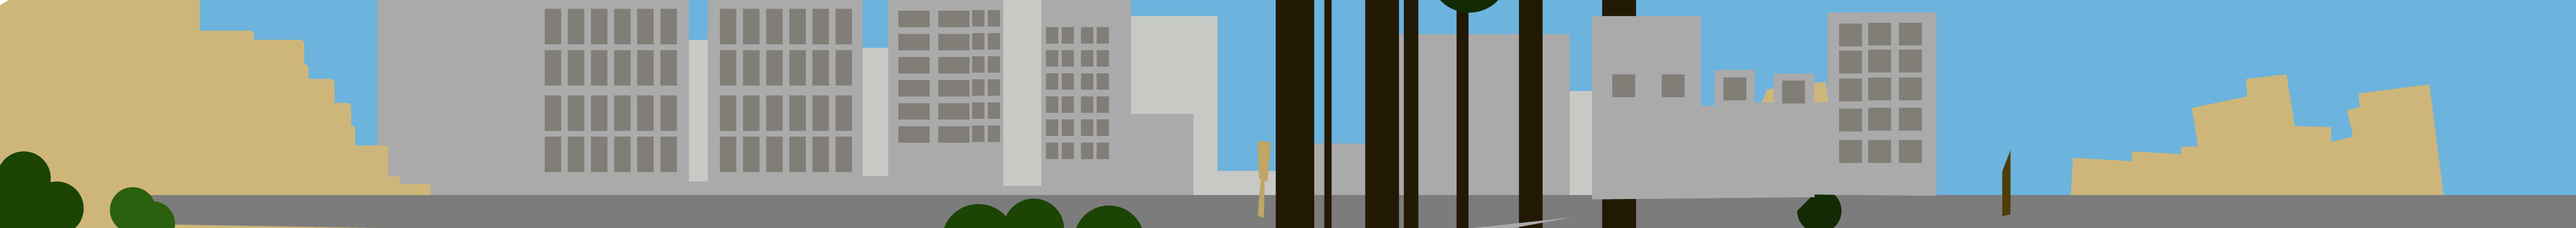
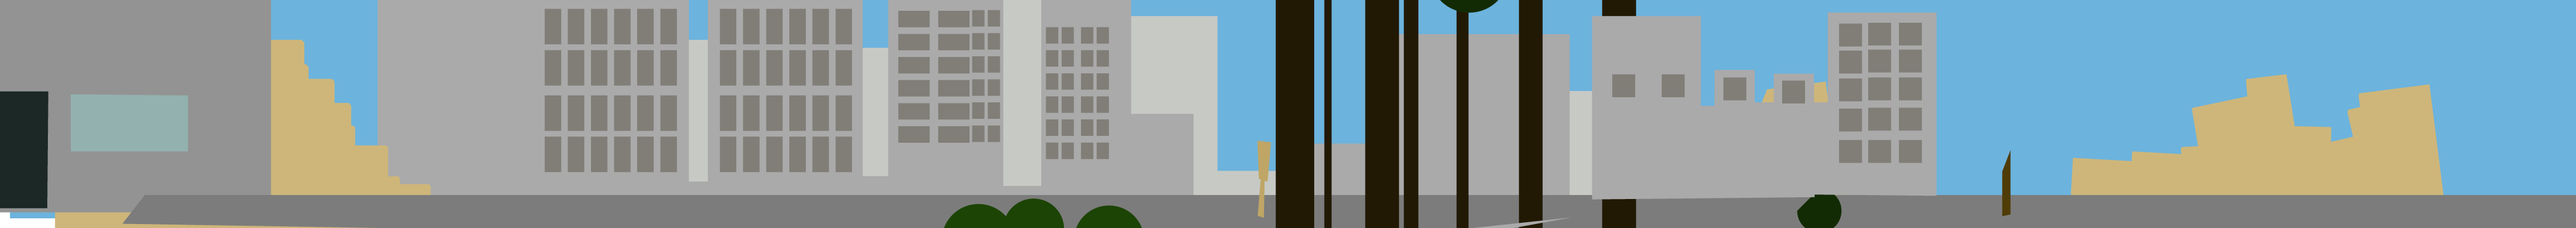
inventory sorta works, bgs are different, wormhole works too

Changed region(s): [[0.0, 0.0, 0.1248, 1.0]]

diff --git a/main.py b/main.py
@@ -7,13 +7,17 @@ import resources, player, drawable, item
 def floorfunc(a,b,w,fric,rest):
 	f = pym.Segment(space.static_body, a, b, w)
 	f.friction, f.restitution = fric, rest 	#reduce friction and bounciness
-	f.group = 1 #objects of the same (non-zero) group do not collide
+	f.group = 1  #objects of the same (non-zero) group do not collide
 	return f
 
 def switchbg(bg,fg,ID,XOFF,CHARX,portalbool):
 	global activebg
 	global activefg
 	global char
+	global xoffset
+	global bgw
+	global bgh
+	global drawportal
 	activebg.remove_child(char)
 	activebg.image = bg
 	activefg.image = fg
@@ -33,24 +37,29 @@ space.iterations = 8 						#reduce penetration (haha penetration)
 
 labfloor = floorfunc((-1000,35), (1340,35), 14, 1.0, 0.0)
 labwall = pym.Segment(space.static_body, (-35,-50), (-35, 1000), 20)
-forestfloor = floorfunc((0,35), (5000,35), 14, 1.0, 0.0)
-forestwall = pym.Segment(space.static_body, (4540,-50), (4540, 1000), 20)
-space.add(labfloor, labwall, forestfloor, forestwall)
+cityfloor = floorfunc((-100,35), (5000,35), 21, 1.0, 0.0)
+citywall = pym.Segment(space.static_body, (4540,-50), (4540, 1000), 20)
+forestfloor = cityfloor
+forestwall = citywall
+space.add(labfloor, labwall)
 
 drawable_batch = pyg.graphics.Batch()
 npc_batch = pyg.graphics.Batch()
 char = player.Player(space=space, batch=drawable_batch)
 
 activebg = drawable.Drawable('backgrounds/lab_bg.png')
-activefg = pyg.sprite.Sprite(pyg.image.load('resources/backgrounds/lab_fg.png'), x=0, y=0)
+activefg = pyg.sprite.Sprite(pyg.image.load('resources/backgrounds/lab_fg.png'))
 activebg.id = 0
+forestbatch, citybatch = pyg.graphics.Batch(), pyg.graphics.Batch()
 forest_bg = pyg.image.load('resources/backgrounds/forest_bg.png')
 forest_fg = pyg.image.load('resources/backgrounds/forest_fg.png')
 lab_bg = pyg.image.load('resources/backgrounds/lab_bg.png')
 lab_fg = pyg.image.load('resources/backgrounds/lab_fg.png')
 city_bg = pyg.image.load('resources/backgrounds/city_bg.png')
 city_fg = pyg.image.load('resources/backgrounds/city_fg.png')
-portal = pyg.sprite.Sprite(pyg.image.load('resources/portal-01.png'))
+portal = pyg.sprite.Sprite(pyg.image.load('resources/portal-04.png'))
+melonseed = drawable.Drawable('sap-02.png')
+melontree = drawable.Drawable('tree-03.png')
 activebg.add_child(char)
 
 drawEngine = False	#initially do not show hitboxes/floors
@@ -60,10 +69,19 @@ bgw, bgh = activebg.width, activebg.height
 drawportal = False	#do not draw the portal immediately
 timetravel = False
 
-items = [Item('Watermelon', pyg.image.load('resources/items/watermelon.png'), 500, 50)]
+items = [item.Item('Watermelon', 'items/watermelon.png', 1000, 50)]
 
 for item in items:
-    activebg.add_child(item)
+	activebg.add_child(item)
+
+def plant_watermelon():
+	global activebg
+	global char
+	if activebg.id == 1 and any(i.name == 'Watermelon' for i in char.inventory.I):
+		print 'p'
+		melonseed.set_position(char.body.position.x, char.body.position.y)
+		activebg.add_child(melonseed)
+
 
 @window.event
 def on_draw():
@@ -74,14 +92,12 @@ def on_draw():
 	pyg.gl.glPushMatrix()
 	pyg.gl.glTranslatef(xoffset, 0, 0)	#shift graphics by amount xoffset - like a camera moving
 	activebg.offsetdraw(0,0)
-	drawable_batch.draw()
 	activefg.draw()
 	if drawportal:
-		portal.set_position(1970,58)
+		portal.set_position(1960,57)
 		portal.draw()
 	if drawEngine:
 		pdraw(space)
-
 	pyg.gl.glPopMatrix()
 
 
@@ -90,9 +106,11 @@ def on_key_press(symbol, modifiers):
 	global drawEngine
 	global timetravel
 	if symbol == key.E:
+		#toggle hitboxes/invisible walls-floors-etc
 		drawEngine = not drawEngine
 
 	if symbol == key.UP and drawportal and (char.x < (portal.x + portal.width/2.0) and char.x > (portal.x - portal.width/2.0)):
+		#if the player hits UP when standing inside the drawn portal, change bg/fg
 		timetravel = not timetravel
 		if timetravel:
 			activebg.image = forest_bg
@@ -103,6 +121,18 @@ def on_key_press(symbol, modifiers):
 			activefg.image = city_fg
 			activebg.id = 1
 
+	if symbol == key.I:
+		for item in char.inventory.I:
+			activebg.add_child(item)
+
+	if symbol == key.P:
+		plant_watermelon()
+
+@window.event
+def on_key_release(symbol, modifiers):
+	if symbol == key.I:
+		for item in char.inventory.I:
+			activebg.remove_child(item)
 
 def update(dt):
 	global activebg
@@ -124,68 +154,33 @@ def update(dt):
 		xoffset = -bgw + ww
 
 	if timetravel:
-		if char.posx < -15 and activebg.id == 3:
-			activebg.remove_child(char)
-			activebg.image = lab_bg
-			activefg.image = lab_fg
-			activebg.id = 0
-			bgw,bgh = activebg.width, activebg.height
-			activebg.add_child(char)
-			xoffset = ww - bgw
-			char.body.position.x  = char.posx + bgw
-			drawportal = False
+		if char.posx < -45 and activebg.id == 3:
+			switchbg(lab_bg, lab_fg, 2, ww - lab_bg.width, char.posx + lab_bg.width, False)
+			space.remove(forestwall, forestfloor)
+			space.add(labwall, labfloor)
 
 		if char.posx > 1315 and activebg.id == 2:
-			activebg.remove_child(char)
-			activebg.image = forest_bg
-			activefg.image = forest_fg
-			activebg.id = 1
-			bgw,bgh = activebg.width, activebg.height
-			activebg.add_child(char)
-			xoffset = 0
-			char.body.position.x = 0
-			drawportal = True
-
-
+			switchbg(forest_bg, forest_fg, 3, 0, -35, True)
+			space.remove(labwall, labfloor)
+			space.add(forestfloor, forestwall)
 	else:
-		if char.posx < -15 and activebg.id == 1:
-
-			activebg.remove_child(char)
-			activebg.image = lab_bg
-			activefg.image = lab_fg
-			activebg.id = 0
-			bgw,bgh = activebg.width, activebg.height
-			activebg.add_child(char)
-			xoffset = ww - bgw
-			char.body.position.x  = char.posx + bgw
-			drawportal = False
-
+		if char.posx < -45 and activebg.id == 1:
+			switchbg(lab_bg, lab_fg, 0, ww - lab_bg.width, char.posx + lab_bg.width, False)
+			space.remove(citywall, cityfloor)
+			space.add(labfloor, labwall)
 
 		if char.posx > 1315 and activebg.id == 0:
-			activebg.remove_child(char)
-			activebg.image = city_bg
-			activefg.image = city_fg
-			activebg.id = 1
-			bgw,bgh = activebg.width, activebg.height
-			activebg.add_child(char)
-			xoffset = 0
-			char.body.position.x = 0
-			drawportal = True
+			switchbg(city_bg, city_fg, 1, 0, -10, True)
+			space.remove(labfloor, labwall)
+			space.add(cityfloor, citywall)
 
-	print char.x
+	for item in items:
+		if (abs(char.body.position.x - item.x) < item.icon_hsize//2) and (abs(char.body.position.y - item.y) < item.icon_vsize//2):
+			char.inventory.addItem(item)
+			items.remove(item)
+			activebg.remove_child(item)
 
-    for item in items:
-        if (abs(char.body.position.x - item.x) < Item.icon_hsize//2) and (abs(char.body.position.y - item.y) < Item.icon_vsize//2):
-            char.inventory.addItem(item)
-            items.remove(item)
-            activebg.remove_child(item)
-
-"""
-switchbg(lab_bg, lab_fg, 2, ww - bgw, char.posx + bgw, False)
-switchbg(forest_bg, forest_fg, 3, 0, 0, True)
-switchbg(lab_bg, lab_fg, 0, ww - bgw, char.posx + bgw, False)
-switchbg(city_bg, city_fg, 1, 0, 0, True)
-"""
+	char.inventory.updateItemPositions(char.body.position.x, char.body.position.y)
 
 
 window.push_handlers(char)

diff --git a/inventory.py b/inventory.py
@@ -1,5 +1,5 @@
 import pyglet
-import Icon
+import item
 
 # An inventory consists of a list of length rows*cols and is always drawn with
 # the top left corner at (x,y).
@@ -12,7 +12,7 @@ class Inventory:
         self.y    = y
 
     def addItem(self, item):
-        if len(I) >= (rows*cols):
+        if len(self.I) >= (self.rows*self.cols):
             print "Inventory is full! Cannot add " + item.name + "!"
         else:
             self.I.append(item)
@@ -23,11 +23,15 @@ class Inventory:
         else:
             print item.name + " not found in inventory!"
 
-    def draw():
+    def updateItemPositions(self, charx, chary):
         for i in range(len(self.I)):
             if i < len(self.I):
-                x_offset = Icon.icon_hsize * (i % cols)
-                y_offset = Icon.icon_vsize * (i // rows)
-                I[i].blit(self.x + x_offset, self.y + y_offset)
+                x_offset = 50 * (i % self.cols)
+                y_offset = 50 * (i // self.rows)
+                if charx < 200:
+                    self.I[i].posx = 200
+                else:
+                    self.I[i].posx = charx
+                self.I[i].posy = 350
             else:
                 pass # Should probably blit a black square.

diff --git a/item.py b/item.py
@@ -1,13 +1,15 @@
-import pyglet
+import pyglet, drawable
 
-class Item(pyglet.sprite.Sprite):
+class Item(drawable.Drawable):
     # We'll keep icons to a 20x20 size for now.
     icon_hsize = 50
     icon_vsize = 50
 
     # name: String
-    # icon: AbstractImage or Animation
+    # icon_path: String
     # x, y: Location of item
-    def __init__(self, name, icon, x, y, *args, **kwargs):
-        super(Item, self).__init__(icon, *args, **kwargs)
+    def __init__(self, name, icon_path, x, y, *args, **kwargs):
+        super(Item, self).__init__(image_name=icon_path, *args, **kwargs)
         self.name = name
+        self.posx = x
+        self.posy = y

diff --git a/player.py b/player.py
@@ -55,7 +55,7 @@ class Player(drawable.Drawable):
 				'body' : None
 				}
 
-	Inventory inventory = Inventory(4, 4, 0, 0)
+	inventory = inventory.Inventory(1, 4, 100, 400)
 
 	def __init__(self, space, *args, **kwargs):
 		super(Player,self).__init__(image_name='char/right.png',*args, **kwargs)
@@ -94,6 +94,8 @@ class Player(drawable.Drawable):
 				self.move_right(False)
 			else:							#if only LEFT is hit
 				self.move_left(True)
+
+		#if symbol == key.SPACE:
 
 
 
